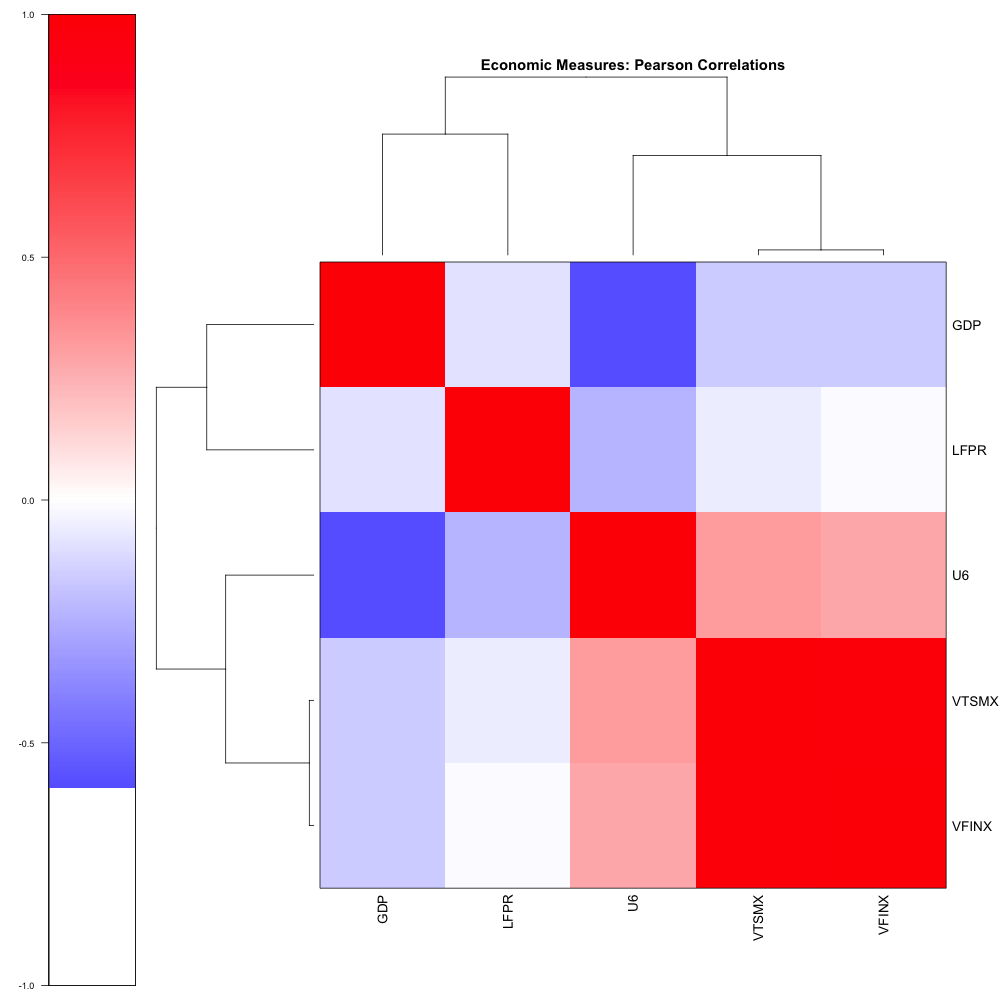
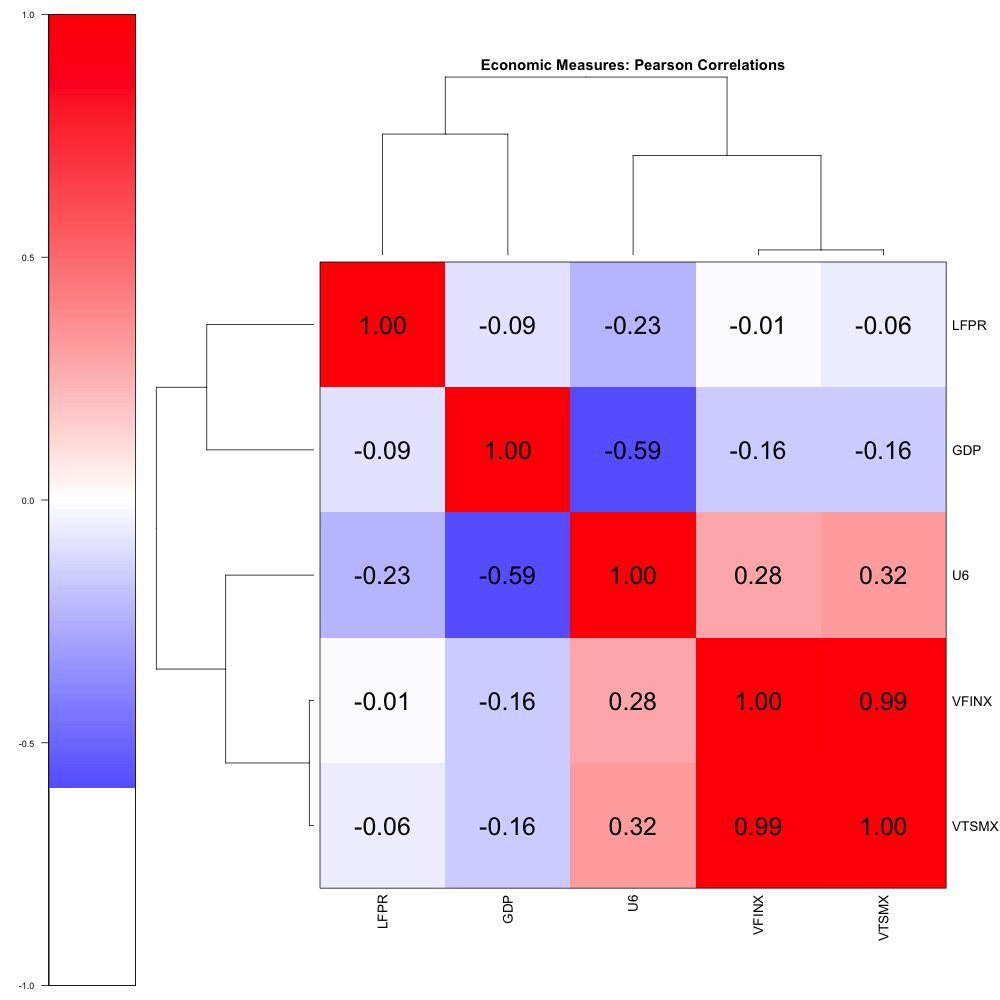
Tweak

diff --git a/_posts/2024-10-28-parties-econ.md b/_posts/2024-10-28-parties-econ.md
@@ -272,8 +272,6 @@ That gets us the maximum of correlation information, but sometimes a few identit
 think would hold do not, in fact, hold.  That's because potentially each correlation is
 computed over the intersection of 2 time series that might be over different years.)  
 
-<!-- *** A better way is to print the correlation in the box in the bicluster image? -->
-<img src="{{ site.baseurl }}/images/2024-10-28-parties-econ-consolidated-correlation.jpg" width="400" height="220" alt="Economic variables: correlation matrix, ordered the same way as the bicluster image below" title="Economic variables: correlation matrix, ordered the same way as the bicluster image below" style="float: right; margin: 3px 3px 3px 3px; border: 1px solid #000000;">
 <a href="{{ site.baseurl }}/assets/2024-10-28-parties-econ-consolidated-bicluster.png"><img src="{{ site.baseurl }}/assets/2024-10-28-parties-econ-consolidated-bicluster-thumb.jpg" width="400" height="400" alt="Economic outcome variables: correlation matrix bicluster" title="Economic outcome variables: correlation matrix bicluster" style="float: right; margin: 3px 3px 3px 3px; border: 1px solid #000000;"></a>
 The correlations and the bicluster indicate:  
 - VFINX and VTSMX are basically the same thing (lower right corner).  All my angst about
